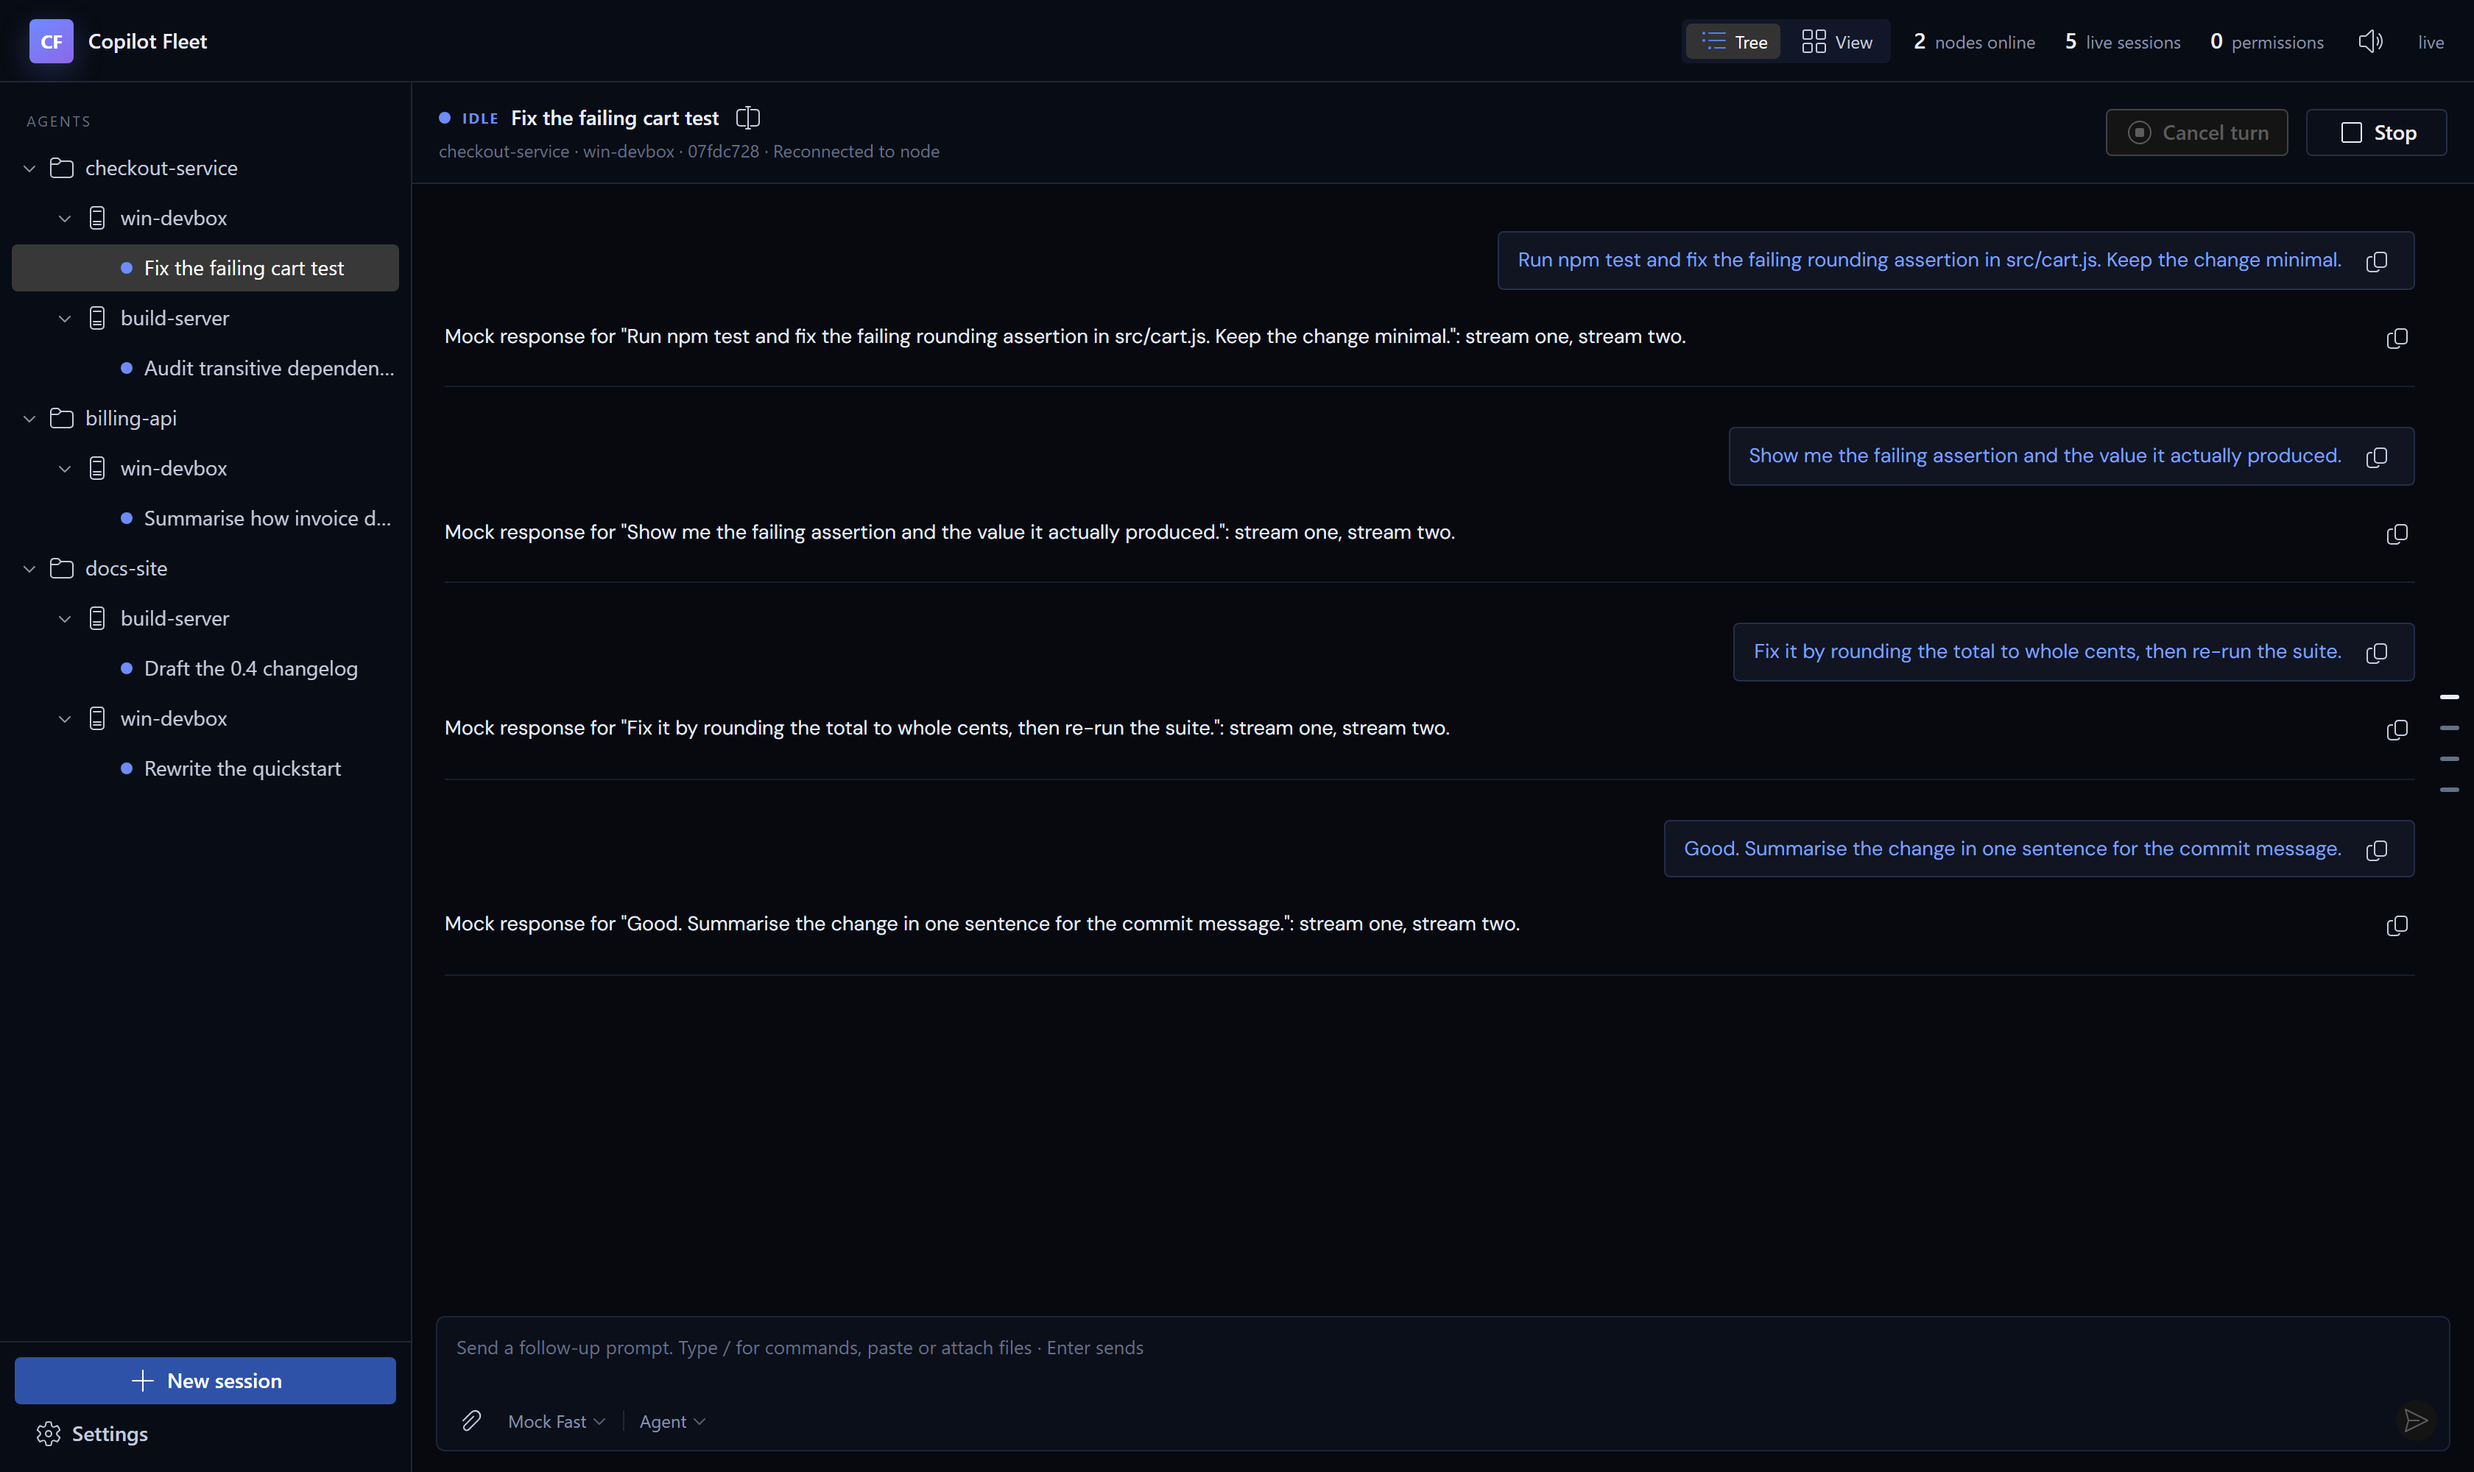
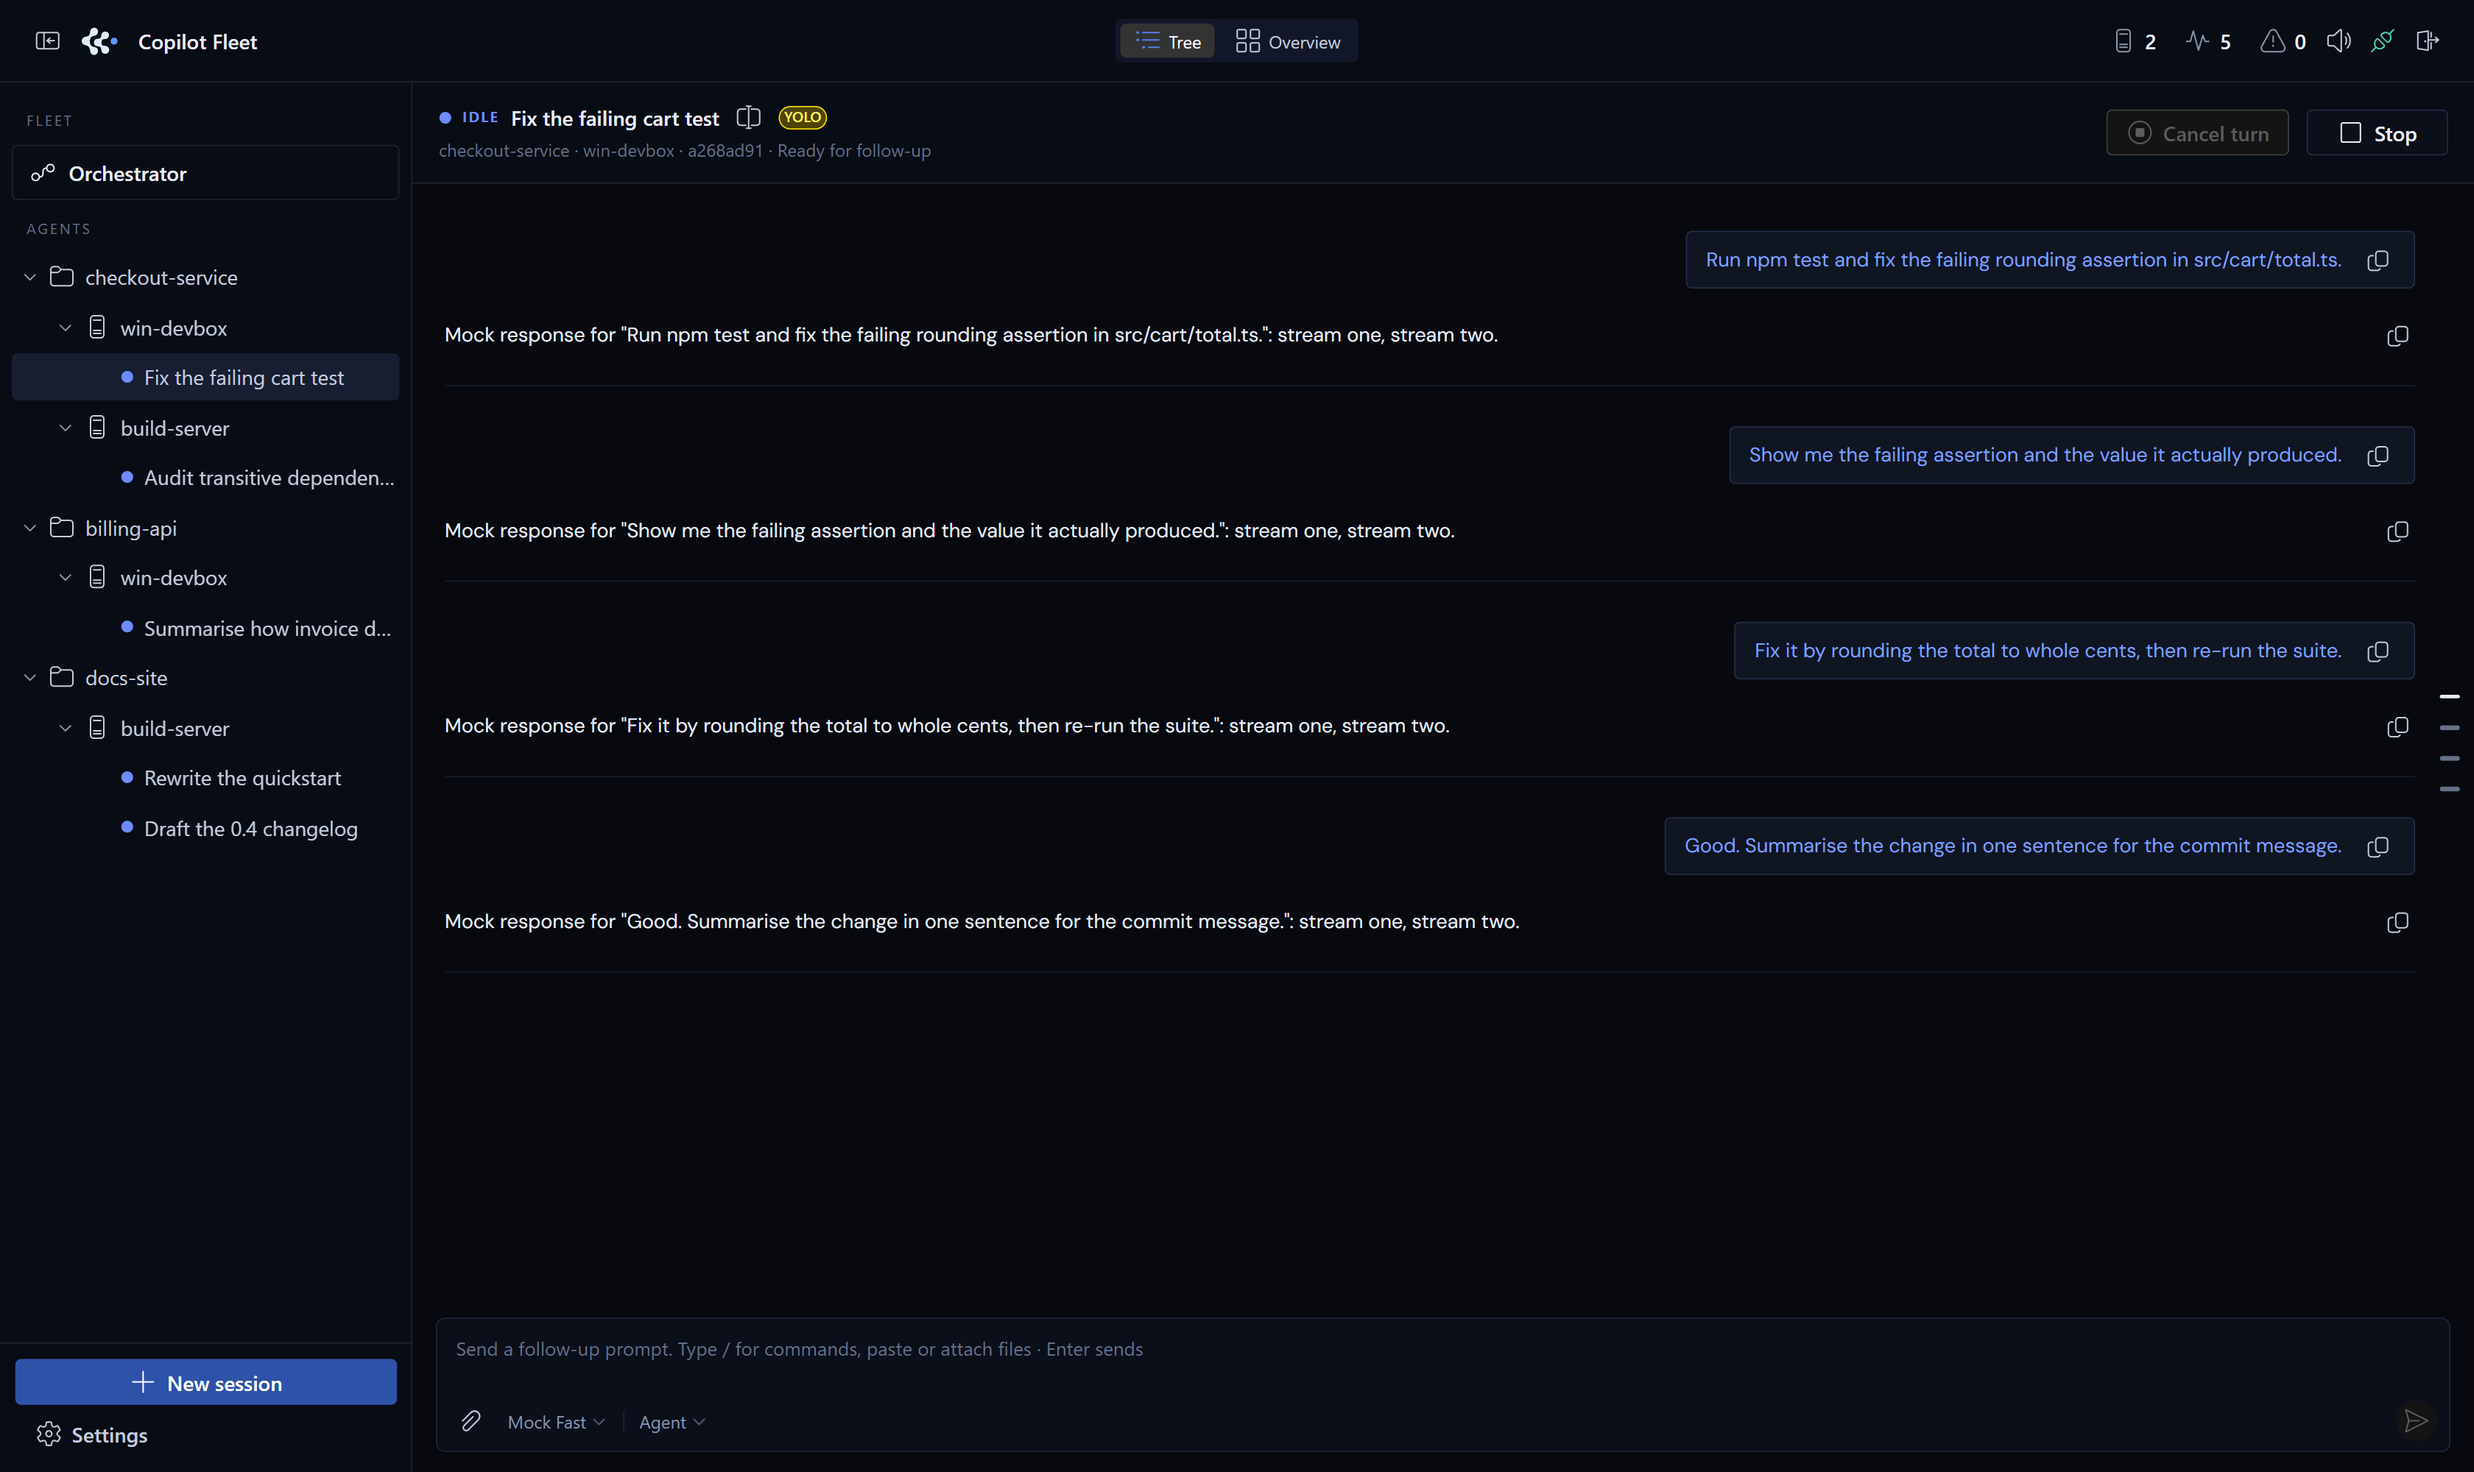
docs: retake the interface screenshots
The UI in these had drifted a long way from the one you get: a "CF" tile where
the fleet's own mark now goes, a Tree/View switch that is Tree/Overview, three
counts spelled out in words that are icons now, and no sign of the orchestrator
row the sidebar opens with. A screenshot that shows a product you cannot find is
worse than no screenshot.

Retaken from the same throwaway `--mock-agent` demo the README already promises
these come from, rather than from a real fleet. That promise is the reason: the
whole point of the mock demo is that anyone can reproduce these without a
Copilot login, and a shot of somebody's actual machine would put their hostname,
their absolute paths and their real work in a public README while quietly making
that sentence false. So: a Host of its own on another port with its own SQLite,
two isolated mock nodes as win-devbox and build-server, a substituted Q: drive
so the placements read Q:\Projects\... as they did before, and the same three
workspaces and five sessions as the originals.

The follow-up prompts are seeded too, not just the opening one. A tile with a
single exchange in it does not demonstrate the thing the wall claims -- that a
card streams a conversation you can read without opening it.

The connect command needed the same care the original took: it is rendered from
whatever the Host is actually running with, so a demo on a spare port and a
throwaway token would have printed both into the one screenshot a reader copies
[…]

diff --git a/README.md b/README.md
@@ -13,7 +13,7 @@ Every agent in the fleet on one screen, grouped by the project it is working in.
 Cards stream their transcript live, so a wall of them is readable without opening
 anything.
 
-![The Copilot Fleet monitor wall: five sessions across three workspaces and two nodes, each card streaming its own transcript.](docs/screenshots/monitor-wall.png)
+![The Copilot Fleet overview: five sessions across three workspaces and two nodes, each card streaming its own transcript.](docs/screenshots/monitor-wall.png)
 
 Open one and you get the whole conversation, the node it runs on, a composer that
 takes slash commands and file attachments, and the agent's own Model and Mode
@@ -395,7 +395,7 @@ Reach a remote node's page over SSH port forwarding rather than binding wider.
 
 ### Following the Host to a new URL
 
-![Settings → Tunnel: five providers — Cloudflare, Dev Tunnels, Tailscale Funnel, ngrok and bore — each with its own toggle and status, and a banner naming the address nodes are currently told to dial.](docs/screenshots/tunnel.png)
+![Settings → Tunnel: five providers — Cloudflare, Tailscale Funnel, Dev Tunnels, ngrok and bore — each with its own toggle and status, and a banner naming the address nodes are currently told to dial.](docs/screenshots/tunnel.png)
 
 Each provider runs on its own, so more than one can be up at a time; the one
 marked for enrollment is the address handed to new nodes.
@@ -563,7 +563,7 @@ Then open `http://127.0.0.1:5173`:
 
 1. Create a workspace under **Workspaces**.
 2. Add a placement for `mock-node` using an existing absolute directory.
-3. Start two sessions from **Dashboard**. Give one a name in the dialog; the
+3. Start two sessions with **New session**. Give one a name in the dialog; the
    other is listed by its prompt until you rename it from the session header.
 4. Open either card to observe independent streamed events, send a follow-up,
    cancel a turn, or stop the process.
@@ -625,7 +625,7 @@ that never got that far is simply over.
 
 There are two ways to put several agents on one job.
 
-**Talk to an orchestrator.** The sidebar's first row is **Orchestration**, above
+**Talk to an orchestrator.** The sidebar's first row is **Orchestrator**, above
 the workspaces, because it is the fleet's own surface rather than any one
 repository's. Start one and you get a session you chat with, which does not
 write code itself — it starts other agents that do. Ask it for something and it
